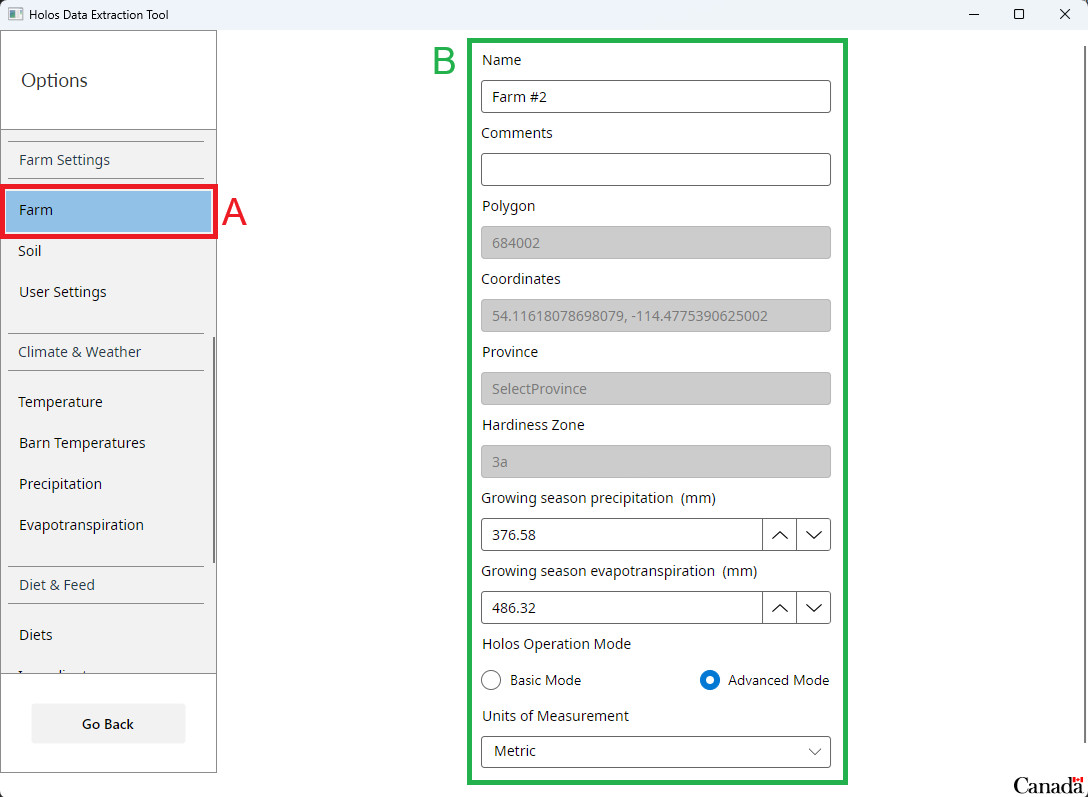
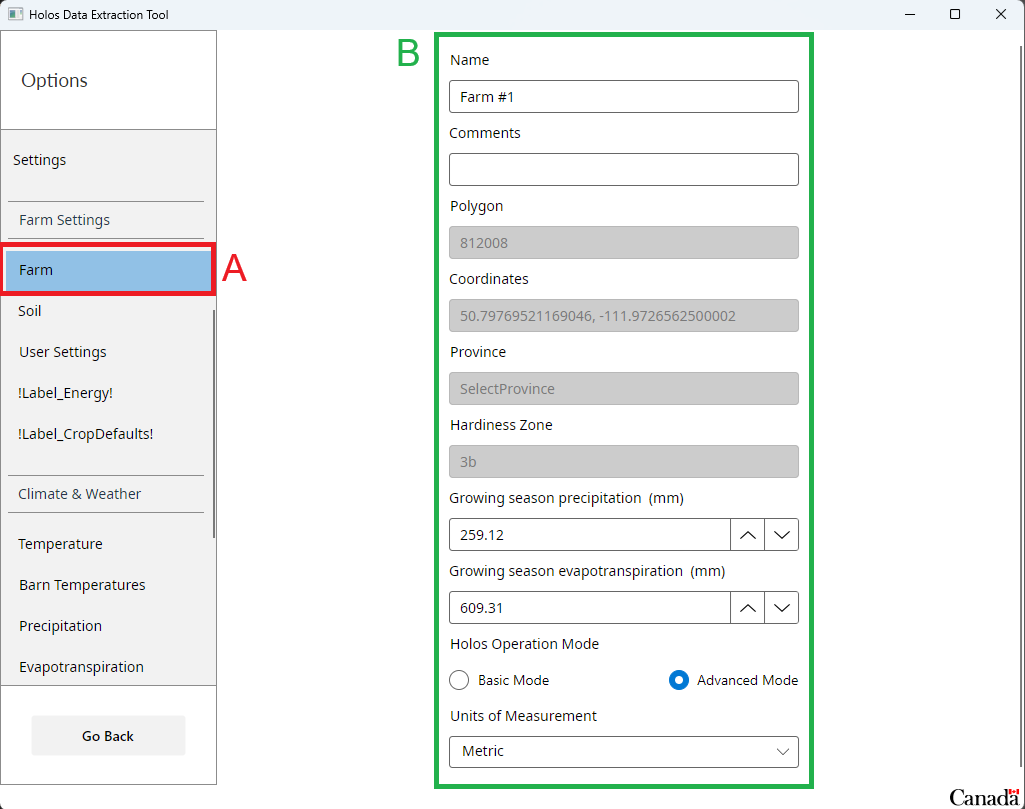
Add more content to user guide. Correct figure4-2

diff --git a/H.Content/Documentation/User Guide/User Guide V5.md b/H.Content/Documentation/User Guide/User Guide V5.md
@@ -4,7 +4,7 @@
 </p>
 
 
-# Chapter - 1 Introduction
+# Chapter - 1 Introduction (Needs update V4->V5)
 
 To install Holos navigate [here](https://agriculture.canada.ca/en/agricultural-production/holos-software-program) on the web.  Click on the specified zip file to download it. Once downloaded, navigate to your downloads folder, and double click the installer named **setup**.  You will be asked if you would like to install the application, click **install**.
 
@@ -60,7 +60,7 @@ Holos can handle multiple farms created by the user, each representing different
 
 ## Creating a new farm
 
-1. On every Holos start-up you either create a new farm or open an existing farm or import a farm from file.  Figure  2.1 displays the interface you are greeted with on every start-up. Your initial start-up of Holos after installation will skip this screen and send you to step two, automatically selecting “New” for you, to begin the creation process. 
+1. On every Holos start-up you either create a new farm or open an existing farm or import a farm from file. Figure  2.1 displays the interface you are greeted with on every start-up. Your initial start-up of Holos after installation will skip this screen and send you to step two, automatically selecting “New” for you, to begin the creation process. 
 
 <br>
 <p align="center">
@@ -97,7 +97,7 @@ Holos can handle multiple farms created by the user, each representing different
 
 ## Selecting farm location
 
-On your screen, you will will now see a map of Canada. On the left section of the you will see steps laid out step one through step 3.
+On your screen, you will will now see a map of Canada. On the left section of the you will see steps laid out step one through step three. Work through these steps to set the location of your farm that will be used to obtain soil and environmental data for the selected location.
 
 <br>
 <p align="center">
@@ -107,7 +107,7 @@ On your screen, you will will now see a map of Canada. On the left section of th
 </p>
 <br>
 
-1. On the left side of the screen starting in Step 1 select the province that the farm is located in. The map view will zoom in on the province selected. You will now see many regions for the province you selected. You can adjust the magnification (i.e. zoom in/out) of the map by using your mouse wheel or by selecting the magnifying glass near the bottom of the screen. (see figure 2.5). 
+1. On the left side of the screen starting in Step 1 select the province that the farm is located in. The map view on the right will zoom in on the province selected. You will now see many regions for the province you selected. You can adjust the magnification (i.e. zoom in/out) of the map by using your mouse wheel or by selecting the the "**+**" or "**-**" button near the bottom right of the screen. (see figure 2.5). 
 
 <br>
 <p align="center">
@@ -121,7 +121,13 @@ On your screen, you will will now see a map of Canada. On the left section of th
 </p>
 <br>
 
-2. For Step 2, Holos 5 provides three choices on how to locate a farm. One, the user can right click on the location of the farm on the map view. Two, the user can enter the latitude and longitude coordinates to locate the farm. Three, the user can the name of the nearest road, municipality, and postal code to their farm. All three of these options will select a location on the map.
+2. For Step 2, Holos 5 provides three choices on how to locate a farm. 
+
+    A. Right click on the location of the farm on the map view.
+    
+    B. Enter the latitude and longitude coordinates to locate the farm. 
+    
+    C. Enter the name of the nearest road, municipality, and postal code to their farm. All three of these options will select a location on the map.
 
 3. Once Step 1 and 2 are complete, move on to Step 3 and click the *"Get Soil Data"* button. Once this button has been clicked, Holos will download the climate data directly from NASA. A progress bar will display the progress in downloading the data, it should only take a few seconds. Holos will then progress to the next screen where soil characteristics are presented.
 
@@ -452,12 +458,12 @@ You can export your farm configuration files to a JSON file (file extension ‘.
 </p>
 <br>
 
-#### Exporting Climate Data Files
+#### Exporting Climate Data Files <strong>V4->V5 update needed</strong>
 
 You can export your farms' climate data to a CSV file (file extension ‘. csv’), which can be viewed in software like Excel.  
 
 1.	To export a file, click on the “**Export Climate**” under the “**File**” header on the left side of the screen. This will load the export climate view in the content region of the application where you can see a list of farms that you can export. 
-2.	You can **add a description** to each farm or modify the name of the farm by clicking on the appropriate box and modifying its contents. <strong>SHOULD THIS BE REMOVED? V4->V5</strong>
+2.	You can **add a description** to each farm or modify the name of the farm by clicking on the appropriate box and modifying its contents.
 3. Click on the **farm**(s) you would like to include and click “**Export**” at the bottom to **choose a location for your exported file. The selected farm(s) will appear shaded*.*
 4.	After you have selected your farm(s) and have clicked the “**Export**” button. You will be prompted to **choose a location where you would like the file to be created**. 
 5.	You can **navigate** through your system with the tabs on the left side of the screen. 
@@ -473,7 +479,7 @@ data for multiple farms results in multiple .csv files.
 <br>
 When exporting the climate data for multiple farms, step 4 in the process outlined above will repeat for the amount of farms you have chosen to export climate data for.
 
-## Help Tab <strong>(Add this in to V5? V4->V5)</strong>
+## Help Tab <strong>V4->V5 update needed</strong>
 
 Under the “**Help**” tab, there is the option to “**Send Feedback**”, view “**About Holos**”, or view the “**Disclaimer**”.
 
@@ -543,14 +549,14 @@ Under the “**Help**” tab, there is the option to “**Send Feedback**”, vi
 
 # Chapter 4 - Farm Settings
 
-Under the “**Defaults**” header, there are three options available: **Farm Details, User Settings and Crop Defaults**.
+Under the “**Farm Settings**” header, there are three options available: **Farm Details, User Settings and Crop Defaults**. <strong>V4->V5 update needed</strong>
 
 <br>
 <p align="center">
  <img src="../../Images/UserGuide/en/chapter4/figure4-1.png" alt="Figure4-1" width=""/>
     <br>
     <em>
-		Figure 4.1: Defaults Options
+		Figure 4.1: Defaults Options <strong>V4->V5 update needed</strong>
 		<br>
 		A: A list of options available to set the defaults for your operations.
 		<br>
@@ -586,6 +592,9 @@ In the farm details section, the farm details categories are:
 - **Farm**: Defaults related to general farm information
 - **Soil**: Soil defaults including texture, thickness etc.
 - **User Settings**: Carbon modelling, Biomass, N<sub>2</sub>O, & irrigation
+- **Energy**: Energy conversion into GHGs, amount of energy used for each farm component
+- **Crop Defaults**: Specify default values for each crop type.
+
 
 **Climate & Weather**
 - **Temperature**: Monthly temperature averages
@@ -635,7 +644,7 @@ The default data for this screen is based on information found in the algorithm 
 </p>
 <br>
 
-## Crop Defaults
+## Crop Defaults  (Needs update V4->V5)
 
 1.	Select “**Crop Defaults**” 
 2.	This view allows you to specify default values for each crop that you might come across in Holos.  For example, every time you enter barley as the crop in a field component, Holos will use the values recorded here to complete its calculations.
@@ -646,7 +655,7 @@ The default data for this screen is based on information found in the algorithm 
  <img src="../../Images/UserGuide/en/chapter4/figure4-5.png" alt="Figure4-5" width="650"/>
     <br>
     <em>
-		Figure 4.5: Crop Defaults
+		Figure 4.5: Crop (Needs update V4->V5)
 		<br>
 		A: Step 1. Select a crop type for which you'd like to supply custom default values.
 		<br>
@@ -662,7 +671,7 @@ The default data for this screen is based on information found in the algorithm 
  <img src="../../Images/UserGuide/en/chapter4/figure4-6.png" alt="Figure4-6" width="650"/>
     <br>
     <em>
-		Figure 4.6 - Step 3 section.
+		Figure 4.6 - Step 3 section. (Needs update V4->V5)
 		<br>
 		This section appears when the user selects 'yes' in Step 2.
  	</em>
@@ -670,7 +679,7 @@ The default data for this screen is based on information found in the algorithm 
 <br>
 
 
-# Chapter 5 - Tools
+# Chapter 5 - Tools (Needs update V4->V5)
 
 Under the “**Tools**” header, you can create a custom diet for your chosen livestock
 
@@ -684,7 +693,7 @@ Under the “**Tools**” header, you can create a custom diet for your chosen l
 </p>
 <br>
 
-## Custom Diet Creator
+## Custom Diet Creator (Needs update V4->V5)
 
 -	With the custom diet creator, you can **create diets for each animal type that you have on your farm**. This will include details about the diet such as: Forage (%), Starch (% DM), and Fat (% DM).
 - After selecting a specific diet creator, a new window will pop-up which will allow the user to create a custom diet for their chosen livestock.
@@ -692,7 +701,7 @@ Under the “**Tools**” header, you can create a custom diet for your chosen l
 -	To **create a Custom Diet**, click “**Add Custom Diet**” at the top of the window.
 <br>
 
-### Creating A Custom Diet
+### Creating A Custom Diet (Needs update V4->V5)
 
 1.	Click on “**Add Custom Diet**”
 2.	For each diet that is added, it will be displayed underneath the “**My Custom Diets**” section. You can change the name, the animal type and any field associated with that diet. 
@@ -725,7 +734,7 @@ Under the “**Tools**” header, you can create a custom diet for your chosen l
 <br>
 
 
-### Modifying a Default Diet
+### Modifying a Default Diet (Needs update V4->V5)
 
 To modify one of the default diets in Holos for a specific animal group and management period, it is best to make a copy of the default diet and then alter the data inputs for the copy. 
 
@@ -771,7 +780,7 @@ Please note: if the user selects the same diet (either the original default diet
 
 
 
-### Adding Feed Ingredients
+### Adding Feed Ingredients (Needs update V4->V5)
 
 1.	**Select the diet** you would like to add a feed ingredient to or select  “**Add Custom Diet**” to add a new diet.
 2.	**Click on the feed ingredient** you would like to add under the “**Step 2**” section. You can modify the data associated with the selected ingredient by clicking on the box of the data field you would like to modify. The selected ingredient will shaded.
@@ -791,7 +800,7 @@ You can click on “Yes” beside “Show Additional Columns” to see additiona
 
 <br>
 
-### Creating a Custom Ingredient
+### Creating a Custom Ingredient (Needs update V4->V5)
 
 1.	Under “**Available Feed Ingredients**” click on “**Create A Custom Ingredient**”
 2. An empty field of data will appear in the list of available feed ingredients. You can customize each data field to conform to the custom ingredient that you wish to add such as the name, **Forage (%), Dry matter (% AF) and Crude protein (% DM)**.
@@ -808,7 +817,7 @@ You can click on “Yes” beside “Show Additional Columns” to see additiona
 
 <br>
 
-## Tooltips
+## Tooltips (Needs update V4->V5)
 
 Tooltips are an informational message that help describe various elements in the program. The Holos software incorporates tooltips throughout the program to provide further explanation for various terms and abbreviations. 
 
@@ -850,50 +859,52 @@ Tooltips are also available for abbreviated terms found in various parts of the 
 
 ## Introducing Component Selection
 
-With Holos, you can create your own farm through a selection of **components** that are available under the “**All Components**” section.
+With Holos, you can create your own farm through a selection of **components** that are available to add to your farm after selecting the "**Edit Components**" button in the bottom left of the application.
 
 **Each** component is categorized by their type and include the following: **Land Management, Beef Production, Dairy, Swine, Poultry, Sheep and Other livestock.** 
 
 <br>
 <p align="center">
- <img src="../../Images/UserGuide/en/chapter6/figure6-1.png" alt="Figure6-1" width="950"/>
+ <img src="../../Images/UserGuide/enV5/chapter6/figure6-1.png" alt="Figure6-1" width="950"/>
     <br>
     <em>
-		Figure 6.1 - Component Selection 
+		Figure 6.1 - Empty farm file with no components added 
 	 	<br>
-		A: All the possible Components, separated by Component Categories that can be added to the Farm
+		A: Edit Components button that when pressed will display all available components that can be added to the farm.
 		<br>
-		B: A single Component Category
+		B: The region where added components for the farm file will appear. 
 		<br>
-		C: All the components that have been added to the Farm
+		C: The component selection screen displayed after "<Strong>Edit Components</Strong>". This presents the categories of components that can be added to the farm. 
 	</em>
 </p>
 <br>
 
 ### Adding a Component to Your Farm
 
-1.	To add a component to your farm, you must **double click** or **drag a component** from the “**Available Components**” list into “**My Farm**”.
-2.	As a result, the component will appear under the “**My Farm**” tab and the data associated with that component you have chosen will be displayed in the section to the right of “My Components”.
+1.	After selecting the "**Edit Components**" button, the right side of the application will display a grid of component categories to select from. Select a category of the component type you would then press the "**+ Add to Farm**" for the specific component. Once added to the farm, you can either select the "**Back to Categories**" button to add more components, or "**Finished Selecting Components**" to return and configure added components.
+2.	As a result, the component will appear under the “**My Components**” tab and the data associated with that component you have chosen will be displayed in the section to the right of “My Components”.
 3.	To switch between selected farm components, click on the component that you want to see, and the program will automatically switch to display that component’s information.
 4.	See Figure 6.2 below for a visual representation.
 
 <br>
 <p align="center">
- <img src="../../Images/UserGuide/en/chapter6/figure6-2.png" alt="Figure6-2" width="850"/>
+ <img src="../../Images/UserGuide/enV5/chapter6/figure6-2.png" alt="Figure6-2" width="850"/>
     <br>
     <em>
-		Figure 6.2- Adding a Component 
+		Figure 6.2- Adding a Land Management Component 
 	 	<br>
-		A: A list of all available components that can be added to the farm, separated by component category.
+		A: The "<Strong>+ Add to Farm</Strong>" button on a component used to add it to a farm.
 		<br>
-		B: A list of components that have been added to the farm.
+		B: The "<Strong>Back to Categories</Strong>" that will navigate back to the component category selection screen.
 		<br>
-		C: The data associated with the selected component.
+		C: The "<Strong>Finished Selecting Categories</Strong>" button that will take the user back to the screen to configure the added components.
+		<br>
+		D: A component added to the "<Strong>My Components</Strong>" of the farm after selecting "<Strong>+ Add to Farm</Strong>". 
 	</em>
 </p>
 <br>
 
-### Copying a Component in Your Farm
+### Copying a Component in Your Farm (Needs update V4->V5)
 
 1.	You can copy a component in you farm by right clicking on the component and selecting “**Create a Copy**”.
 2.	A window will appear.  You can select how many copies you would like to create. Press “**OK**” when finished (**see Figure 6.3**).